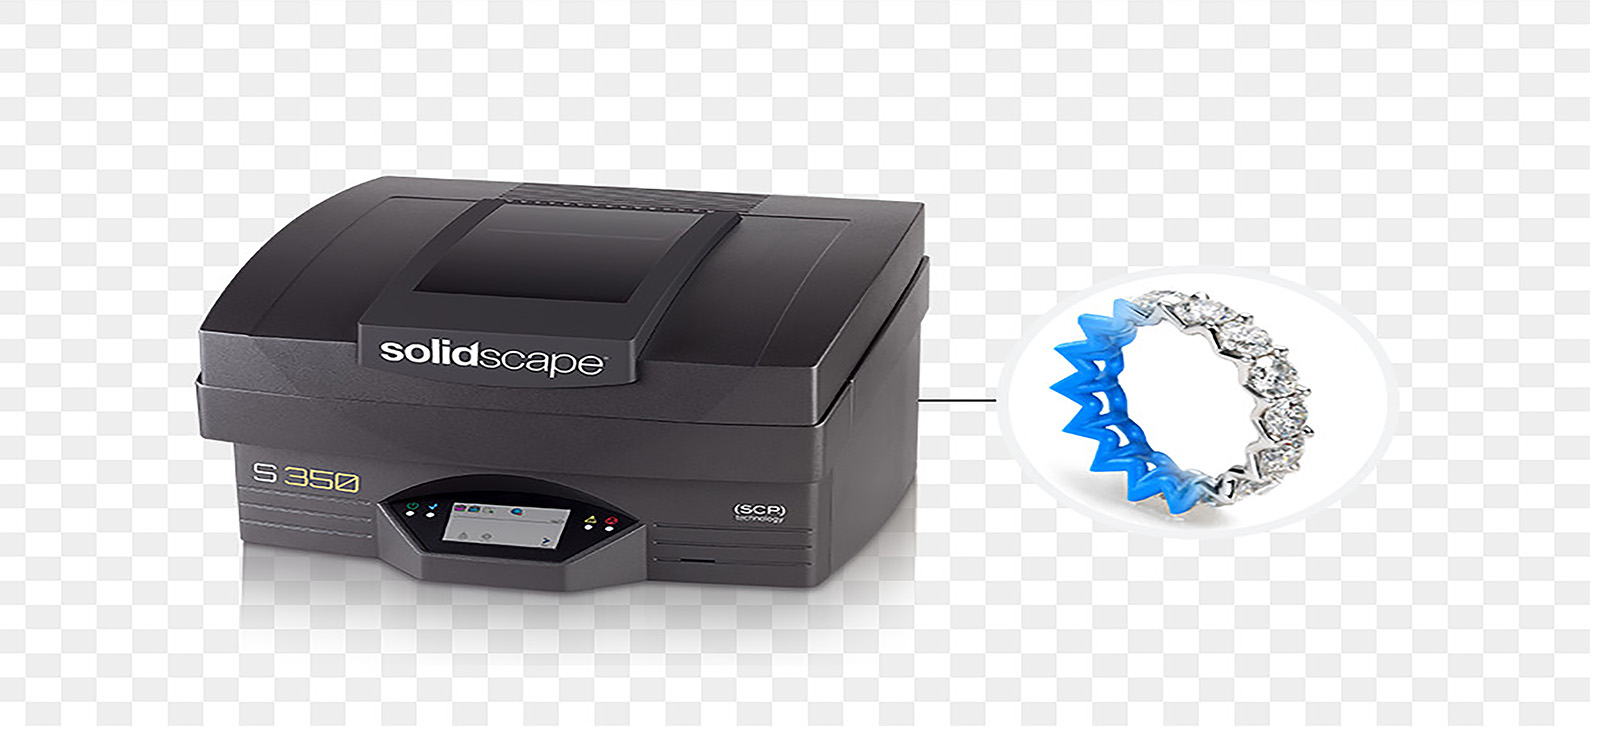
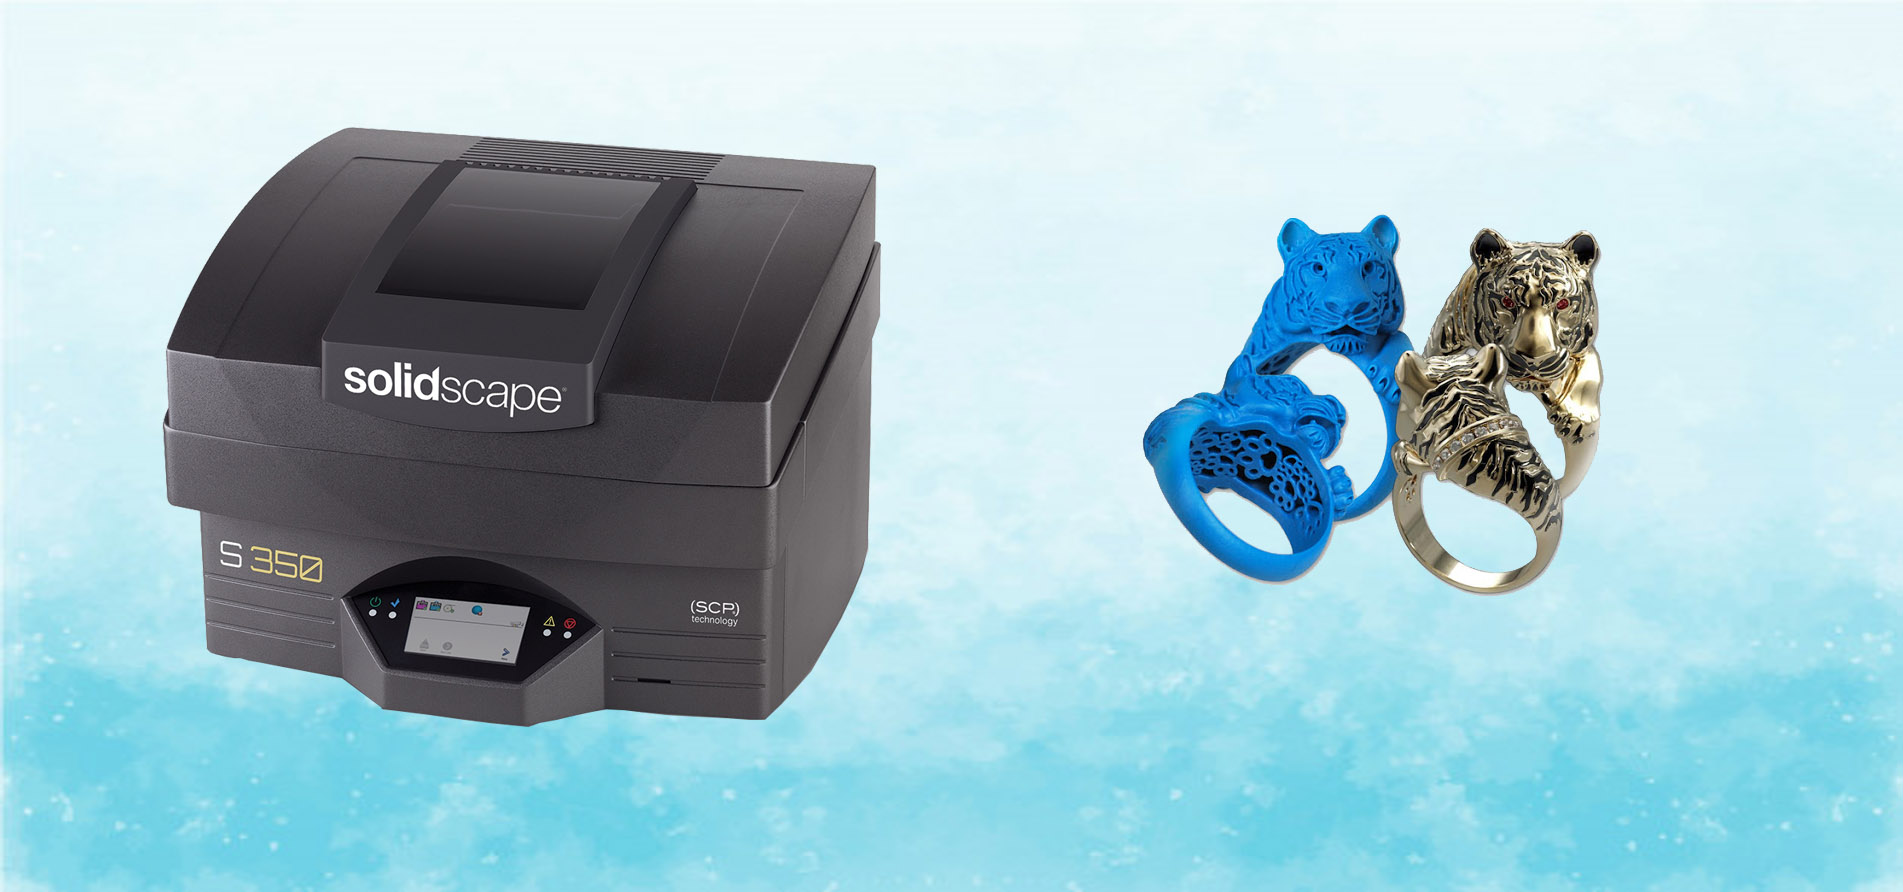
change

diff --git a/index.html b/index.html
@@ -173,9 +173,9 @@
         <img src="img/slider/1.jpg" alt="main slider" title="#htmlcaption1"/>
         <img src="img/slider/3.jpg" alt="main slider" title="#htmlcaption1"/>
         <img src="img/slider/2.jpg" alt="main slider" title="#htmlcaption2"/>
-        <img src="img/slider/solid%202.jpg" alt="main slider" title="#htmlcaption1"/>
+        <img src="img/slider/solid%202.jpg" alt="main slider" />
         <img src="img/slider/solid%20%206.jpg" alt="main slider" title="#htmlcaption1"/>
-        <img src="img/slider/solid%201.jpg" alt="main slider" title="#htmlcaption1"/>
+        <img src="img/slider/solid%203.jpg" alt="main slider"/>
     </div>
     <div id="htmlcaption1" class="nivo-html-caption slider-caption-1">
         <div class="slider-progress"></div>
